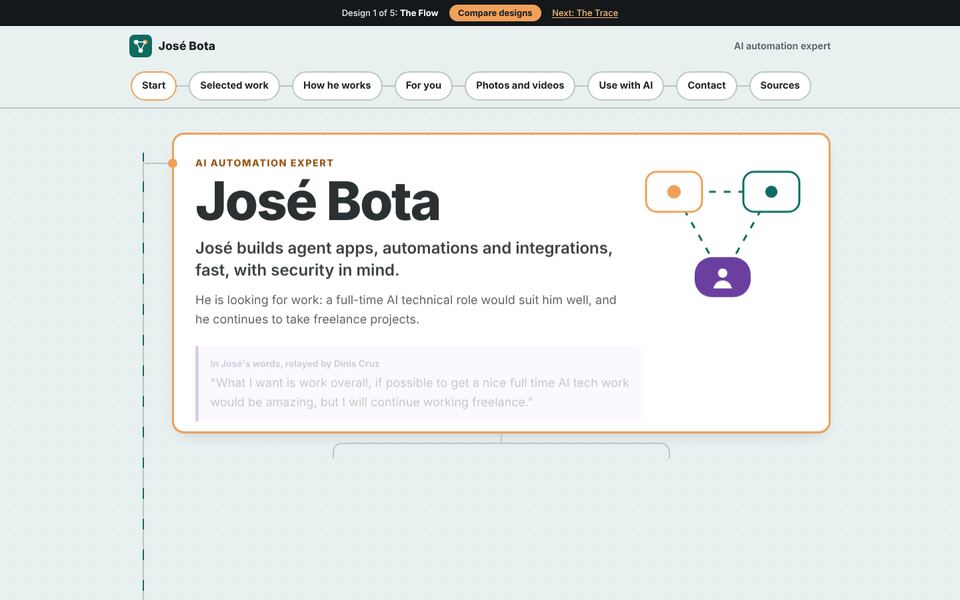
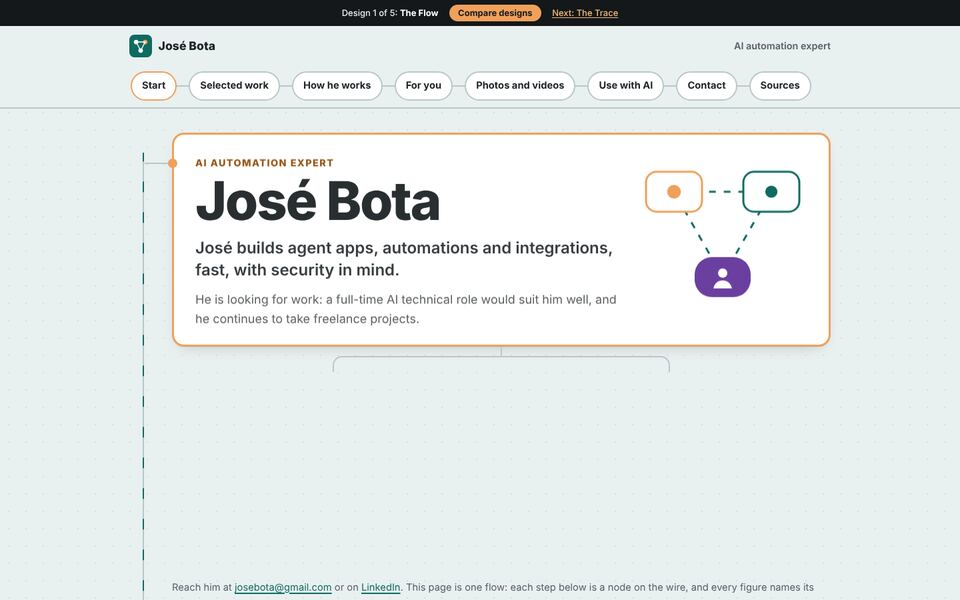
Remove José's quoted words about the work he wants
At José Bota's word, 16 Nov 2026: "I don't want that part: what I want is
work overall... remove that phrase". On a branch; not released.

The quote and its attribution are gone from the home page, The Trace, The
Fact Sheet, The Arena, for-you/ and index.md. The plain statement that he
is looking for a full-time AI technical role and continues to take
freelance projects stays, and now opens for-you/ and index.md.

Agent: site@AgentiCCells.jose
Claude-Session: https://claude.ai/code/session_01CqQLD8xdE7so2j3Zqiwt6R

diff --git a/src/d/sheet/index.html b/src/d/sheet/index.html
@@ -382,10 +382,6 @@ It shows a trace of every tool call, a live request budget, rate limits, leaderb
 <p>For a full-time AI technical role, and for freelance automation and agent projects.</p>
 </div>
 <div class="sec-body">
-<blockquote>
-<p>“What I want is work overall, if possible to get a nice full time AI tech work would be amazing, but I will continue working freelance.”</p>
-<footer>In José's words, relayed by Dinis Cruz</footer>
-</blockquote>
 <p class="callout"><span class="note">Proposal</span>The kinds of work below are a proposal drawn from his public work, for José to confirm. They are not a list of past clients or contracts.</p>
 
 <div class="sub" id="full-time">

diff --git a/src/d/arena/index.html b/src/d/arena/index.html
@@ -390,10 +390,6 @@ footer a:focus-visible{outline-color:var(--paper);box-shadow:0 0 0 8px var(--ind
 <p class="kicker">What he can do for you</p>
 <h2>Work with José</h2>
 </div>
-<div class="quote">
-<p class="by">In José's words, relayed by Dinis Cruz:</p>
-<p>"What I want is work overall, if possible to get a nice full time AI tech work would be amazing, but I will continue working freelance."</p>
-</div>
 <p class="proposal"><strong>Proposal:</strong> the kinds of work below are a proposal drawn from his public work, for José to confirm. They are not a list of past clients or contracts.</p>
 <div class="cols">
 <section id="full-time">

diff --git a/src/d/trace/index.html b/src/d/trace/index.html
@@ -248,10 +248,6 @@ figure.media{border:1px solid var(--line);border-radius:.5rem;background:var(--p
 <a class="primary" href="#full-time"><strong>Hiring for an AI role?</strong><span>What José brings to a full-time team.</span></a>
 <a href="#projects"><strong>Have an automation project?</strong><span>The kinds of work he can take on.</span></a>
 </div>
-<blockquote>
-<p>"What I want is work overall, if possible to get a nice full time AI tech work would be amazing, but I will continue working freelance."</p>
-<footer>In José's words, relayed by Dinis Cruz</footer>
-</blockquote>
 </section>
 
 <section id="work" aria-labelledby="h-work">

diff --git a/src/for-you/index.html b/src/for-you/index.html
@@ -31,7 +31,7 @@
 <main id="main" class="wrap">
 <p class="role">What he can do for you</p>
 <h1>Work with José</h1>
-<p class="lead">In José's words, relayed by Dinis Cruz: "What I want is work overall, if possible to get a nice full time AI tech work would be amazing, but I will continue working freelance."</p>
+<p class="lead">He is looking for work: a full-time AI technical role would suit him well, and he continues to take freelance projects.</p>
 
 <p class="note"><strong>Proposal:</strong> the kinds of work below are a proposal drawn from his public work, for José to confirm. They are not a list of past clients or contracts.</p>
 

diff --git a/src/index.html b/src/index.html
@@ -372,10 +372,6 @@ footer p{margin:.25rem 0}
 <h1>José Bota</h1>
 <p class="lead">José builds agent apps, automations and integrations, fast, with security in mind.</p>
 <p>He is looking for work: a full-time AI technical role would suit him well, and he continues to take freelance projects.</p>
-<div class="said">
-<p class="who">In José's words, relayed by Dinis Cruz</p>
-<p>"What I want is work overall, if possible to get a nice full time AI tech work would be amazing, but I will continue working freelance."</p>
-</div>
 </div>
 <div class="fork">
 <span class="fork-lines" aria-hidden="true"></span>

diff --git a/src/index.md b/src/index.md
@@ -2,7 +2,7 @@
 
 **AI automation expert.** José builds agent apps, automations and integrations, fast, with security in mind.
 
-He is looking for work. In his words, relayed by Dinis Cruz: "What I want is work overall, if possible to get a nice full time AI tech work would be amazing, but I will continue working freelance."
+He is looking for work: a full-time AI technical role would suit him well, and he continues to take freelance projects.
 
 - Hiring for an AI role? See [What he can do for you](https://jose-bota.agenticcells.site/for-you/#full-time).
 - Have an automation project? See [What he can do for you](https://jose-bota.agenticcells.site/for-you/#projects).
